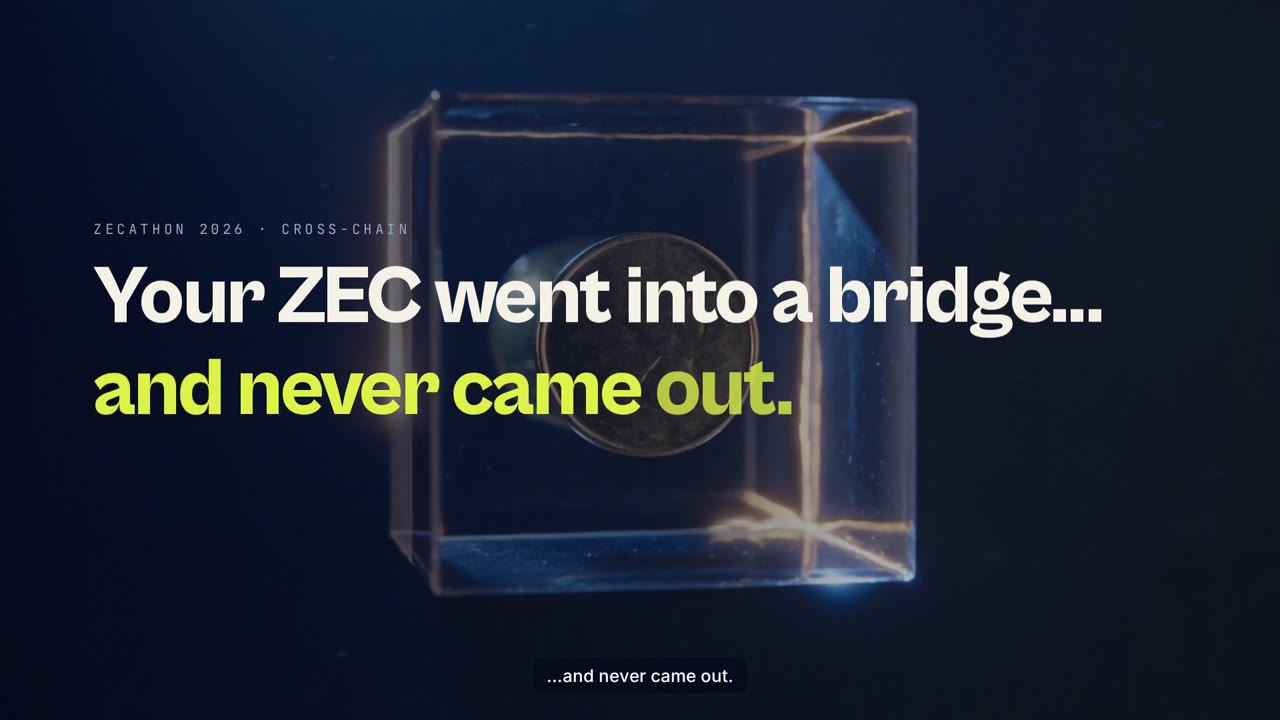
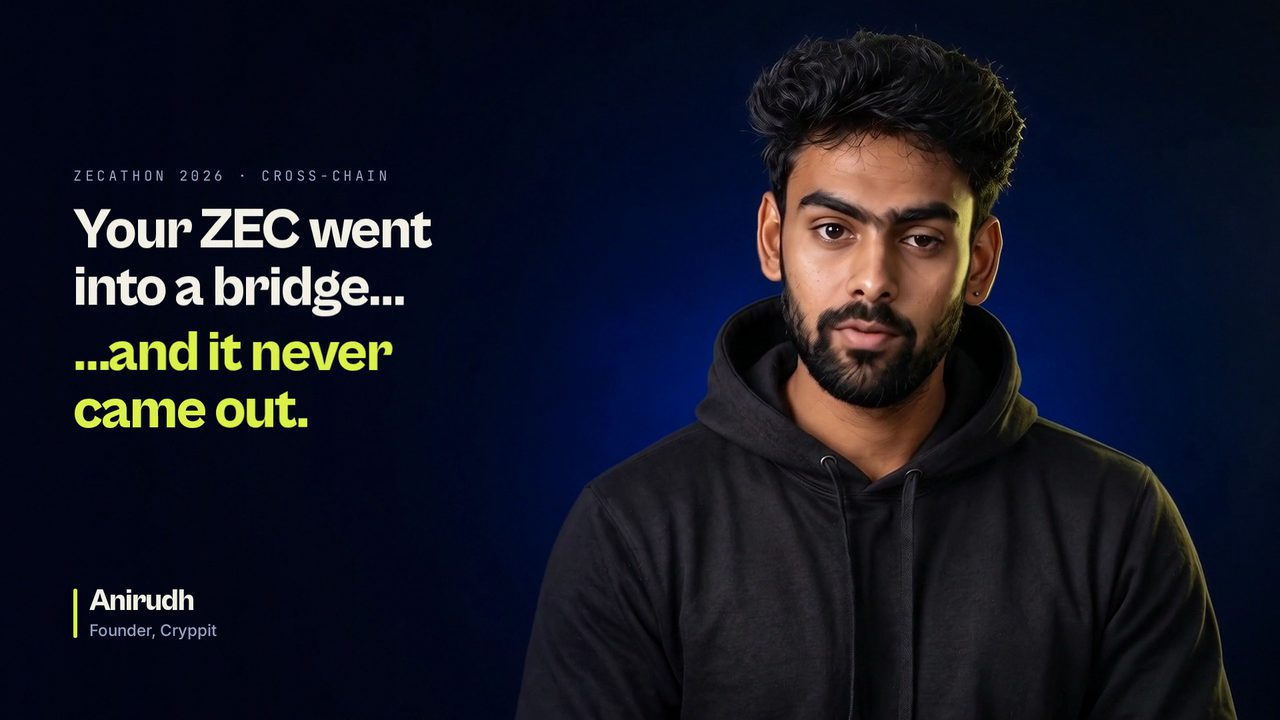
feat(web): the 90-second demo, with the founder opening and closing on camera
The v0.1.0 release asset zcash-refund-helper-demo.mp4 is now v4 (1:28, sha256 39990efc…3630af46), so the page's
video and the README link keep their addresses. The poster is a frame of the opening; the heading and the README give
the new length.

diff --git a/web/index.html b/web/index.html
@@ -38,7 +38,7 @@
   </section>
 
   <section class="video-wrap">
-    <h2>The 80-second demo</h2>
+    <h2>The 90-second demo</h2>
     <video controls preload="none" playsinline poster="poster.jpg" src="demo.mp4">Your browser cannot play this video. <a href="demo.mp4">Download it</a>.</video>
   </section>
 

diff --git a/README.md b/README.md
@@ -8,7 +8,7 @@ Keyless and read-only: it never asks for, sees or holds a key, and it never sign
 Live demo: https://cryppit.github.io/zec-refund-helper/ (this repository's own web page, `web/`: the same checks, run in
 your browser against public sources only).
 
-Demo video (1:20): https://cryppit.github.io/zec-refund-helper/demo.mp4 (also attached to the
+Demo video (1:28): https://cryppit.github.io/zec-refund-helper/demo.mp4 (also attached to the
 [v0.1.0 release](https://github.com/cryppit/zec-refund-helper/releases/tag/v0.1.0)).
 
 ## The problem
